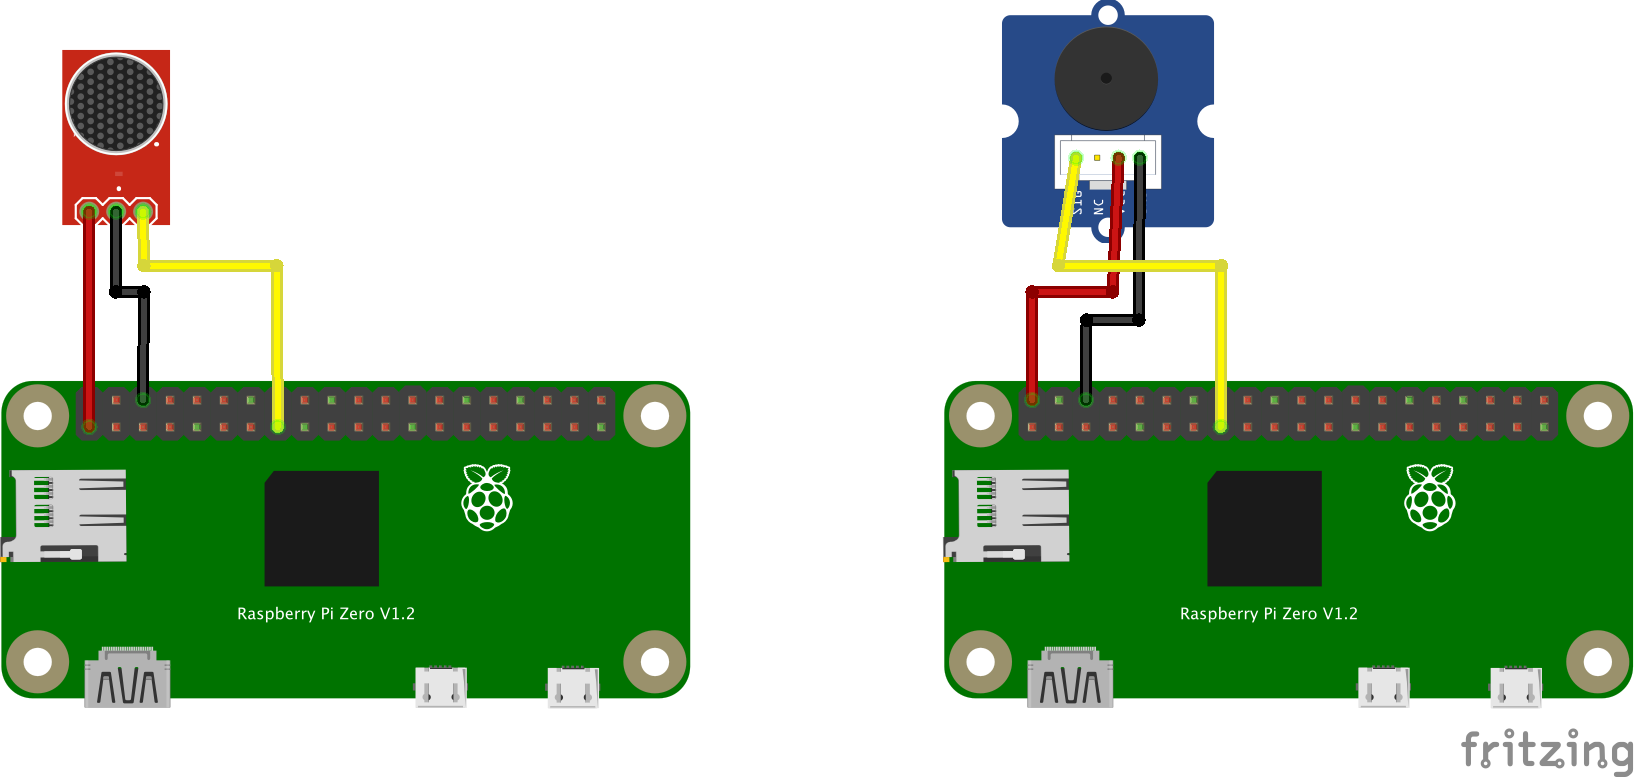
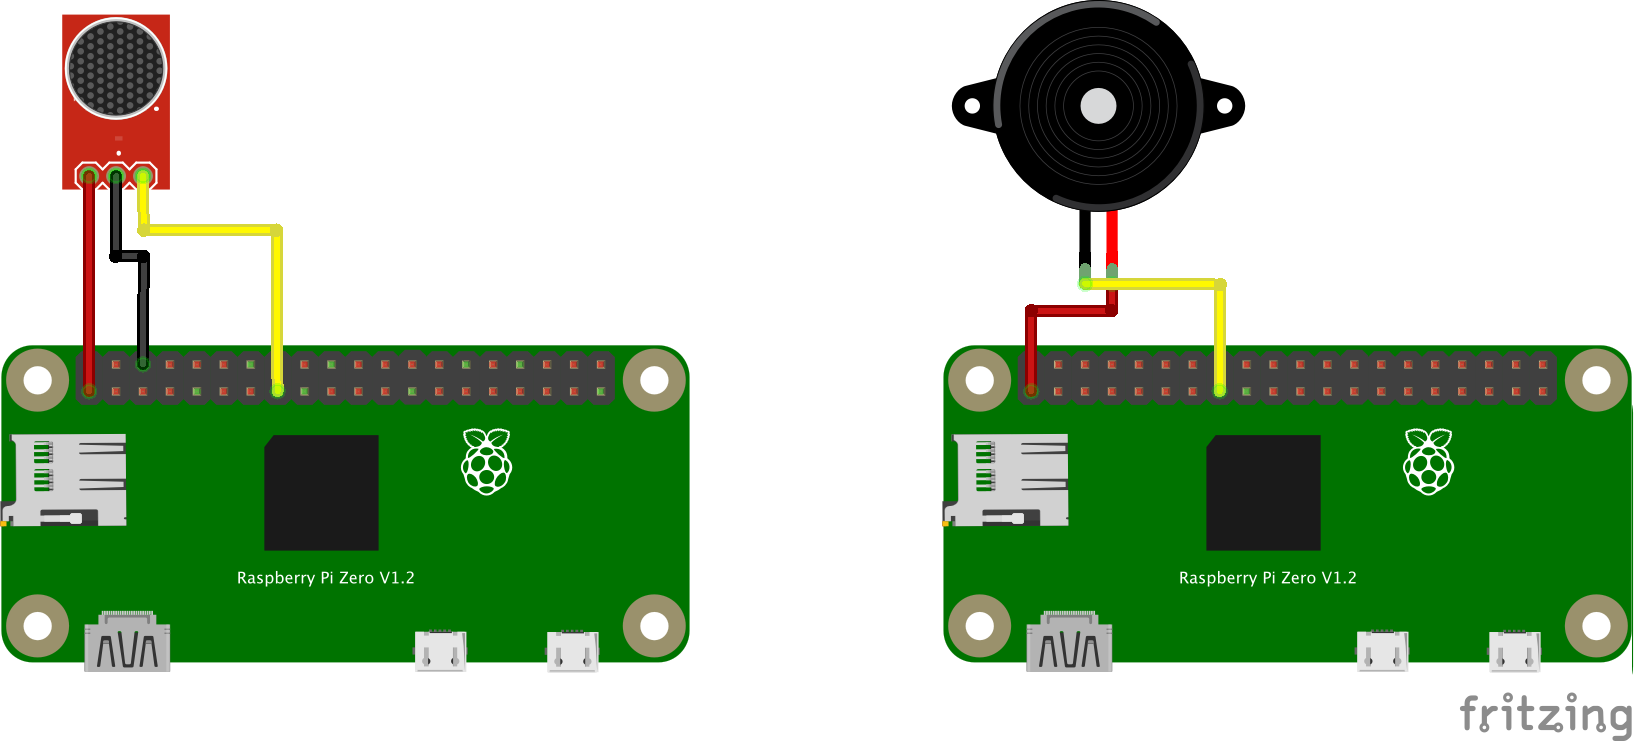
Add scripts

diff --git a/buzzer.py b/buzzer.py
@@ -1,0 +1,60 @@
+#!/usr/bin/env python
+
+from BaseHTTPServer import BaseHTTPRequestHandler, HTTPServer
+import RPi.GPIO as GPIO
+import time
+
+BuzzerPin = 15
+
+class Handler(BaseHTTPRequestHandler):
+    def _set_headers(self):
+        self.send_response(200)
+        self.send_header('Content-type', 'text/plain')
+        self.end_headers()
+
+    def do_GET(self):
+        self._set_headers()
+        self.wfile.write("Buzz ...")
+        self.buzz();
+
+    def do_HEAD(self):
+        self._set_headers()
+
+    def buzz(self):
+        for x in range(10):
+           self.beep(0.025)
+
+    def on(self):
+        GPIO.output(BuzzerPin, GPIO.LOW)
+
+    def off(self):
+        GPIO.output(BuzzerPin, GPIO.HIGH)
+
+    def beep(self, x):
+        self.on()
+        time.sleep(x)
+        self.off()
+        time.sleep(x)
+
+def runServer():
+    server_address = ('', 8080)
+    httpd = HTTPServer(server_address, Handler)
+    print 'Starting httpd...'
+    httpd.serve_forever()
+
+def setup():
+        GPIO.setmode(GPIO.BOARD)
+        GPIO.setup(BuzzerPin, GPIO.OUT)
+        GPIO.output(BuzzerPin, GPIO.HIGH)
+
+def destroy():
+        GPIO.output(BuzzerPin, GPIO.HIGH)
+        GPIO.cleanup()
+
+if __name__ == '__main__':
+        setup()
+
+        try:
+                runServer()
+        except KeyboardInterrupt:
+                destroy()

diff --git a/sensor.py b/sensor.py
@@ -1,0 +1,21 @@
+#!/usr/bin/python
+import RPi.GPIO as GPIO
+import time
+
+#GPIO SETUP
+channel = 15
+GPIO.setmode(GPIO.BOARD)
+GPIO.setup(channel, GPIO.IN)
+
+def callback(channel):
+        if GPIO.input(channel):
+                print "Sound Detected!"
+        else:
+                print "Sound Detected!"
+
+GPIO.add_event_detect(channel, GPIO.BOTH, bouncetime=300)  # let us know when the pin goes HIGH or LOW
+GPIO.add_event_callback(channel, callback)  # assign function to GPIO PIN, Run function on change
+
+# infinite loop
+while True:
+        time.sleep(1)

diff --git a/README.md b/README.md
@@ -1,1 +1,12 @@
-# entrance-bell-repeater
+Entrance bell repeater
+======================
+
+![Sketch](./sketch.png)
+
+Installation
+------------
+
+```bash
+sudo ln -s $(pwd)/buzzer.service /etc/systemd/system/buzzer.service
+sudo systemctl enable buzzer.service
+```
